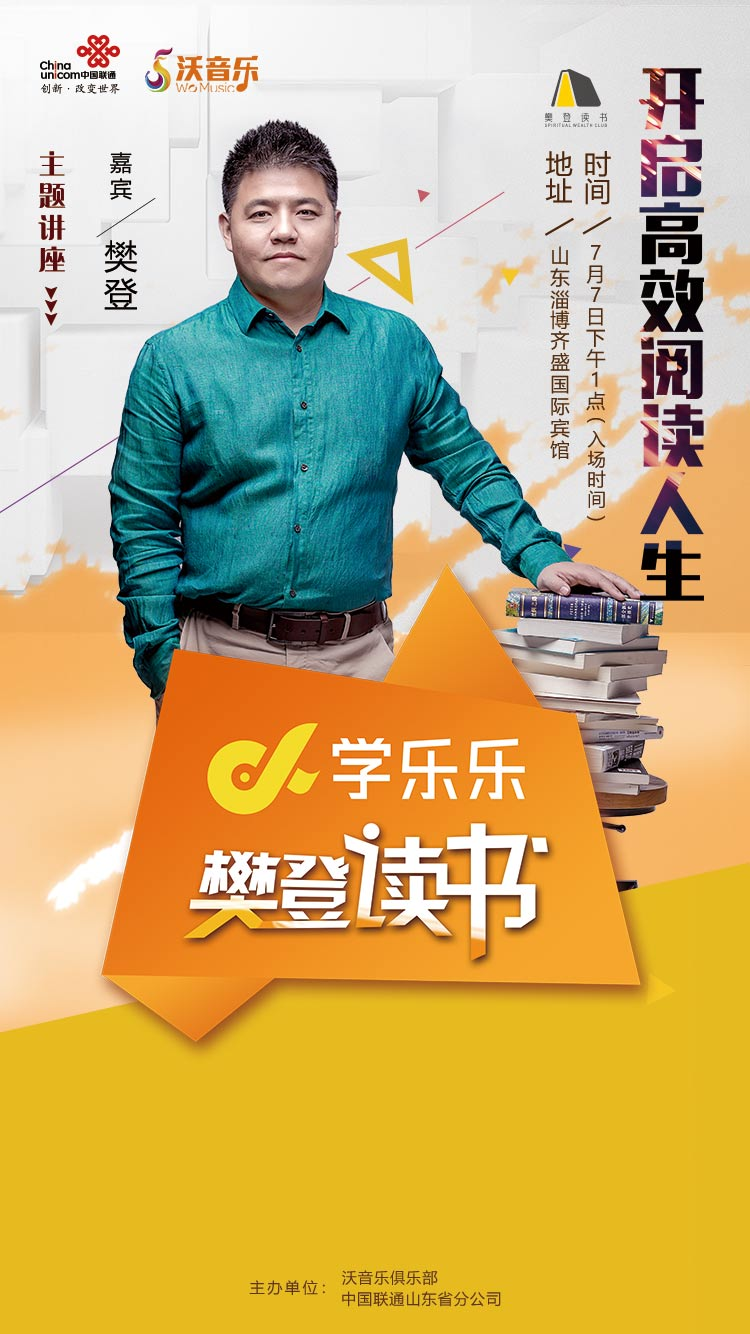
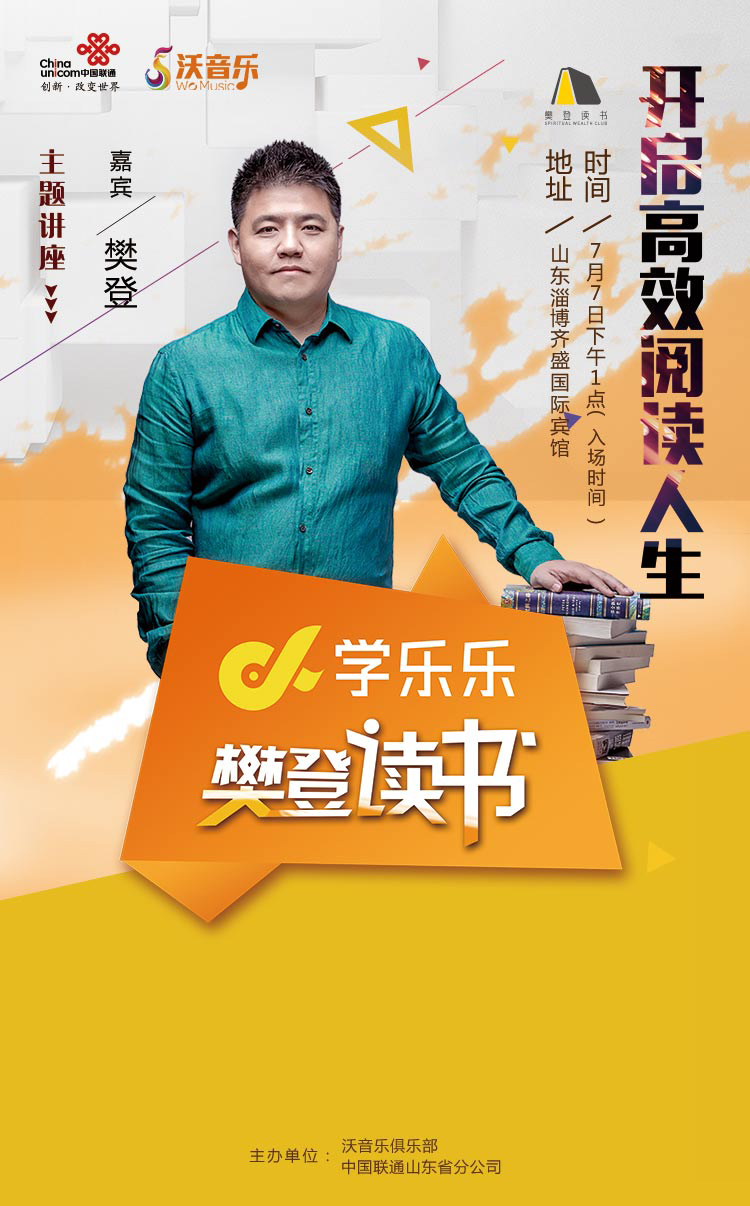
头部遮盖

diff --git a/public/static/css/index.css b/public/static/css/index.css
@@ -2,28 +2,26 @@ html,body {
     font-family:  "Microsoft Yahei";
     color: #666;
     background-color: #fff;
-    line-height: 18px;
 }
 .gather{
     width: 100%;
-    height: 17.786667rem;
-    position: relative;
+    background:#e6bb1f;
+    position:relative;
 }
 .gather .learn {
     width: 100%;
-    height: 17.786667rem;
     position: relative;
 }
 .gather .learn img{
-     width: 100%;
-     height: 17.786667rem;
+    width: 100%;
+    height:16.08rem /* 1206/75 */;
 }
 .gather .learn .case{
     width: 8rem;
     height: .933333rem /* 70/75 */;
     background: #ffffff;
     position: absolute;
-    top: 14.2rem;
+    top: 78%;
     left: 12%;
     border: 1px solid #fee347;
     border-radius: 0.4rem;
@@ -39,7 +37,7 @@ html,body {
     width: 3rem;
     height: 1.013333rem /* 76/75 */;
     position: absolute;
-    top: 15.5rem;
+    top: 86%;
     left: 36%;
     border-radius: .6rem;
     border: 1px solid #fee347;

diff --git a/public/static/js/index.js b/public/static/js/index.js
@@ -1,5 +1,20 @@
 $(function(){
-   
+    isIPhoneX();
+    function isIPhoneX() {
+        var u = navigator.userAgent;
+        var isIOS = !!u.match(/\(i[^;]+;( U;)? CPU.+Mac OS X/); //ios终端
+        if (isIOS) {
+            if (screen.height == 812 && screen.width == 375) {
+                $('.gather').css({
+                    "height":"21.65rem"
+                })
+            } else {
+                $('.gather').css({
+                    "height": "100%"
+                })
+            }
+        }
+    }
     vailPhone();
     var reveal = $(".mallmask").css({"padding": "0.3rem 0.5rem"});
     //判断手机号

diff --git a/application/index/view/xllfd/sign.html b/application/index/view/xllfd/sign.html
@@ -2,7 +2,6 @@
 <html lang="en">
 <head>
     <meta charset="UTF-8">
-    
     <title>学乐乐</title>
     <link rel="stylesheet" href="/static/css/reset.css">
     <link rel="stylesheet" href="/static/css/index.css">
